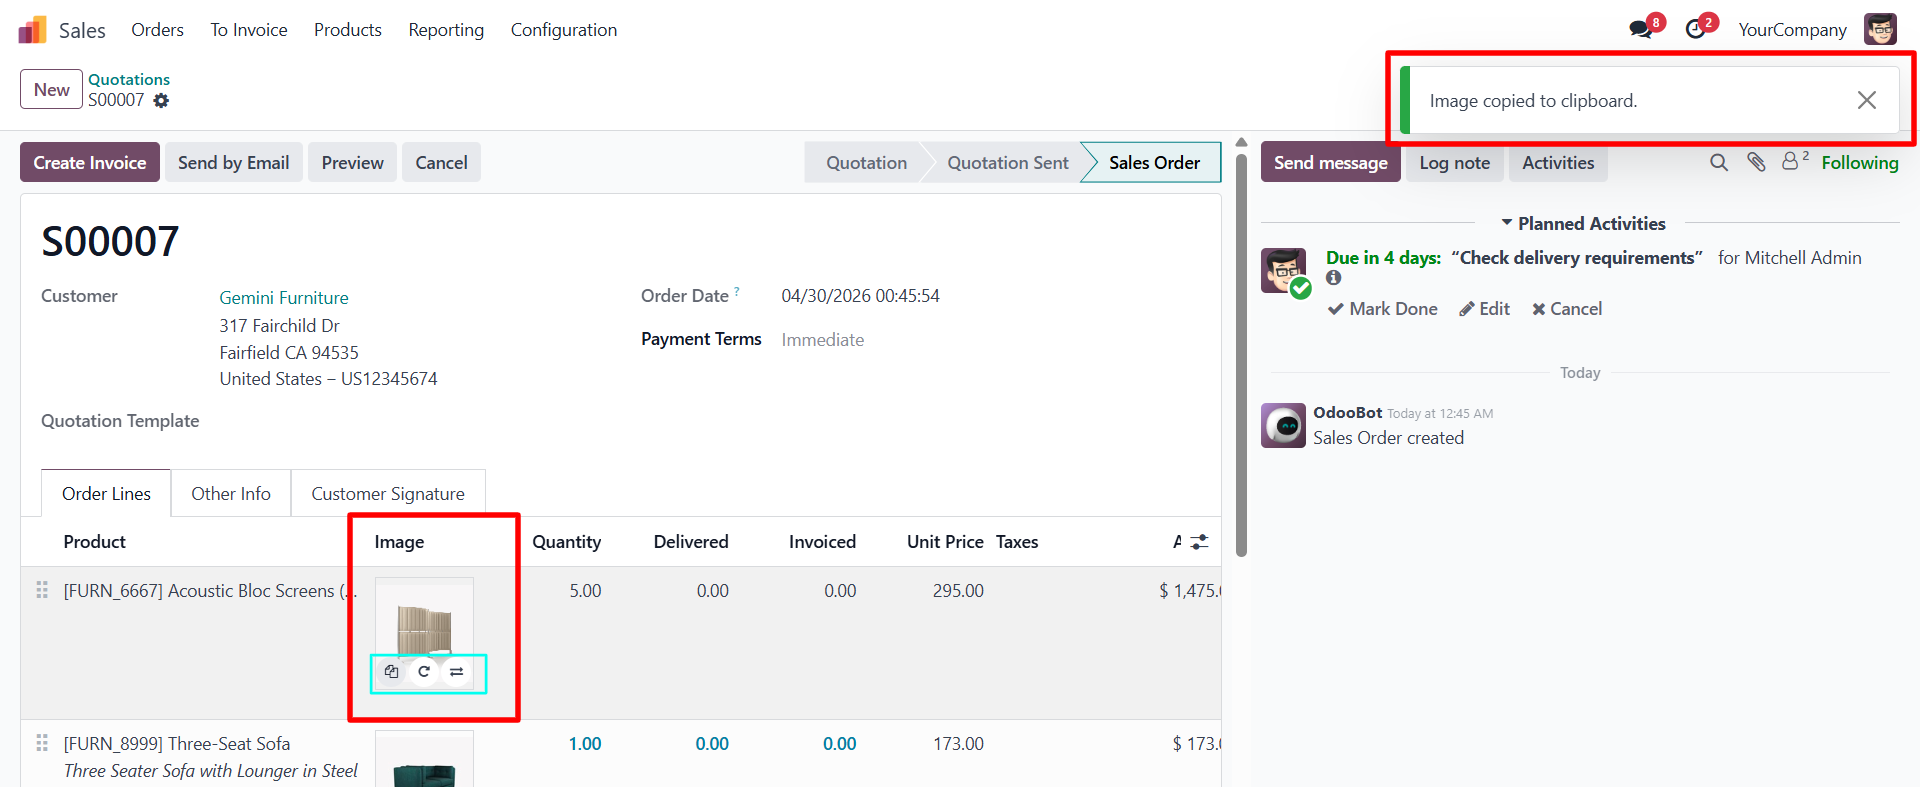
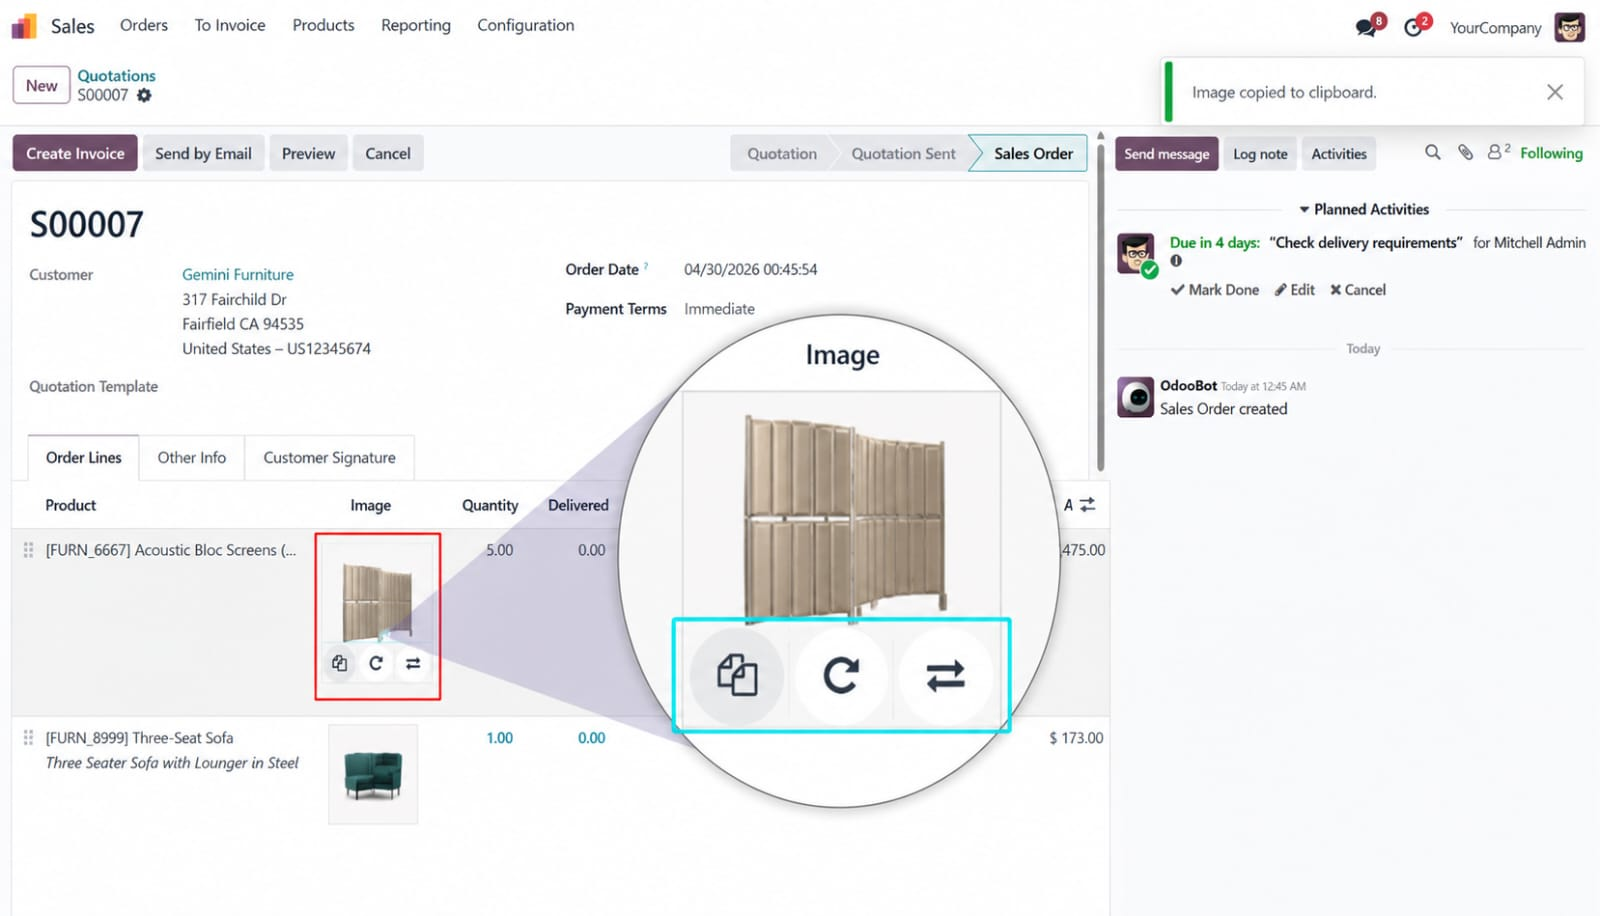
[UPD] agentroo_product_image_clipboard: Updated index file.

diff --git a/agentroo_product_image_clipboard/static/description/index.html b/agentroo_product_image_clipboard/static/description/index.html
@@ -75,8 +75,8 @@
                     </td>
                     <td style="width: 33.33%; vertical-align: top; padding: 18px; border-left: 4px solid #f59e0b; background-color: #ffffff; border-radius: 6px;">
                         <p style="margin: 0 0 9px; color: #b45309; font-size: 22px; font-weight: 800;">06</p>
-                        <h3 style="margin: 0 0 8px; color: #111827; font-size: 16px; line-height: 1.25; font-weight: 800;">White-Label Ready</h3>
-                        <p style="margin: 0; color: #4b5563; font-size: 14px;">Agentroo-branded description with no third-party vendor marketing.</p>
+                        <h3 style="margin: 0 0 8px; color: #111827; font-size: 16px; line-height: 1.25; font-weight: 800;">No Extra Libraries</h3>
+                        <p style="margin: 0; color: #4b5563; font-size: 14px;">No extra tools, plugins, or dependencies needed.</p>
                     </td>
                 </tr>
             </table>
@@ -104,7 +104,6 @@
         </table>
 
         <div style="padding: 34px 28px; margin-bottom: 42px; background-color: #f8fafc; border: 1px solid #e5e7eb; border-radius: 8px;">
-            <h2 style="margin: 0 0 8px; color: #111827; font-size: 28px; line-height: 1.25; font-weight: 800;">Screenshots</h2>
             <p style="margin: 0 0 22px; color: #64748b; font-size: 15px;">
                 Product images are visible where sales users naturally need them: order lines, product forms, kanban views, and catalog views.
             </p>
@@ -118,7 +117,7 @@
                     <td style="width: 50%; vertical-align: top; padding: 12px; background-color: #ffffff; border: 1px solid #e5e7eb; border-radius: 6px;">
                         <img src="img_1.png" alt="Product image copy on product view" style="display: block; width: 100%; max-width: 100%; height: auto; border: 0; border-radius: 4px;">
                         <h3 style="margin: 12px 0 5px; color: #111827; font-size: 16px; font-weight: 800;">Product View Image Copy</h3>
-                        <p style="margin: 0; color: #4b5563; font-size: 14px;">Copy product images from product screens and related views.</p>
+                        <p style="margin: 0; color: #4b5563; font-size: 14px;">Copy product images from product forms, detail pages, kanban cards, and catalog views.<br/>Use quick image tools to copy the image, rotate it left or right, or flip <it class=""></it></p>
                     </td>
                 </tr>
             </table>
@@ -139,7 +138,7 @@
                         </ul>
                     </td>
                     <td style="width: 50%; vertical-align: top; padding: 18px; background-color: #f8fafc; border: 1px solid #e5e7eb; border-radius: 6px;">
-                        <h3 style="margin: 0 0 10px; color: #111827; font-size: 16px; font-weight: 800;">Testing Checklist</h3>
+                        <h3 style="margin: 0 0 10px; color: #111827; font-size: 16px; font-weight: 800;">Quality Checks</h3>
                         <ul style="margin: 0; padding-left: 18px; color: #4b5563; font-size: 14px;">
                             <li style="margin-bottom: 8px;">Copy image from sale order line.</li>
                             <li style="margin-bottom: 8px;">Copy image from product form and detail page.</li>
@@ -153,7 +152,7 @@
 
         <div style="padding: 30px 20px; margin-bottom: 36px; color: #f8fafc; background-color: #111827; border-radius: 8px; text-align: center;">
             <strong style="display: block; color: #ffffff; font-size: 18px;">Agentroo Consultings</strong>
-            <p style="margin: 8px 0 0; color: #d1d5db; font-size: 14px;">Odoo implementation, customization, migration, integration, and support services.</p>
+            <p style="margin: 8px 0 0; color: #d1d5db; font-size: 14px;">Odoo implementation, Customization, Migration, Integration, And Support Services.</p>
             <p style="margin: 6px 0 0; color: #d1d5db; font-size: 14px;">Contact: agentrooconsultings@gmail.com</p>
         </div>
     </div>
